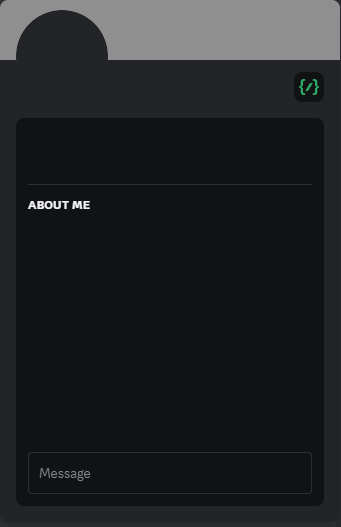
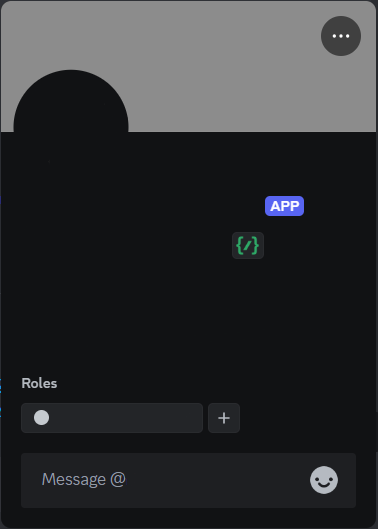
modif command

diff --git a/app/[locale]/page.tsx b/app/[locale]/page.tsx
@@ -1,5 +1,6 @@
 import { useTranslations } from "next-intl";
 import style from "@/public/style/home.module.css";
+import Image from "next/image";
 
 export default function LocalePage() {
   const t = useTranslations("home");
@@ -14,14 +15,26 @@ export default function LocalePage() {
       </div>
       <div className={style.container_bubble}>
         <div className={`${style.bubble} ${style.left}`}>
-          <img src="./img/Bot_dream.png" alt="" className="bubble_img" />
+          <Image
+            src="/img/Bot_dream.png"
+            alt=""
+            className="bubble_img"
+            width={500}
+            height={500}
+          />
           <div className={style.bubble_text}>
             <h1>{t("bubble1.title")}</h1>
             <p>{t("bubble1.description")}</p>
           </div>
         </div>
         <div className={`${style.bubble} ${style.right}`}>
-          <img src="./img/Bot_dream.png" alt="" className="bubble_img" />
+          <Image
+            src="/img/Bot_personnality.png"
+            alt=""
+            className="bubble_img"
+            width={500}
+            height={500}
+          />
           <div className={style.bubble_text}>
             <h1>{t("bubble2.title")}</h1>
             <p>{t("bubble2.description")}</p>
@@ -29,7 +42,13 @@ export default function LocalePage() {
         </div>
 
         <div className={`${style.bubble} ${style.left}`}>
-          <img src="./img/Bot_dream.png" alt="" className="bubble_img" />
+          <Image 
+          src="/img/Bot_result.png" 
+          alt="" 
+          className="bubble_img" 
+          width={500}
+          height={500}
+          />
           <div className={style.bubble_text}>
             <h1>{t("bubble3.title")}</h1>
             <p>{t("bubble3.description")}</p>

diff --git a/public/style/view_bot.module.css b/public/style/view_bot.module.css
@@ -14,30 +14,59 @@
 .profile {
   position: absolute;
   border-radius: 50%;
-  width: 85px;
-  height: 85px;
-  top: 15px;
-  left: 20px;
+  width: 95px;
+  height: 95px;
+  top: 70px;
+  left: 19px;
 }
 
 .title_bot {
   position: absolute;
-  top: 125px;
+  top: 175px;
   left: 30px;
-  font-size: large;
+  font-size: larger;
   font-weight: bold;
+  width: 275px;
+  overflow: hidden;
+}
+
+.title_bot_id {
+  position: absolute;
+  left: 30px;
+  top: 215px;
+  font-weight: normal;
+  font-size: medium;
+  width: 275px;
+  overflow: hidden;
+}
+
+.title_bot_role {
+  position: absolute;
+  left: 30px;
+  top: 315px;
+  font-weight: normal;
+  font-size: medium;
   width: 275px;
   overflow: hidden;
 }
 
 .description_bot {
   position: absolute;
-  top: 200px;
+  top: 251px;
   left: 30px;
   width: 275px;
-  height: 200px;
+  height: 90px;
   overflow-wrap: break-word;
   overflow-x: hidden;
+  font-size: small;
+}
+
+@media screen and (max-width: 768px) {
+  .view {
+    position: relative;
+    margin-bottom: 100px;
+  }
+  
 }
 
 @media screen and (max-width: 425px) {

diff --git a/components/Command/View_bot.tsx b/components/Command/View_bot.tsx
@@ -19,7 +19,9 @@ const View_Bot = ({bot_view}: any) => {
         width={100}
         height={100}
       />
-      <p className={style.title_bot}>{bot_view.name}</p>
+      <p className={style.title_bot}>{bot_view.name.length > 19 ? bot_view.name.substr(0, 19)+"..." : bot_view.name}</p>
+      <p className={style.title_bot_id}>{bot_view.name.length > 19 ? bot_view.name.substr(0, 19)+"..." : bot_view.name}</p>
+      <p className={style.title_bot_role}>{bot_view.name.length > 19 ? bot_view.name.substr(0, 19)+"..." : bot_view.name}</p>
       <p className={style.description_bot}>{bot_view.description}</p>
     </div>
   );

diff --git a/components/Command/Form_step_1.tsx b/components/Command/Form_step_1.tsx
@@ -81,6 +81,7 @@ const Form_step_1 = ({ bot, setBot }: { bot: any; setBot: any }) => {
           value={bot.name}
           onChange={handleChange}
           required
+          maxLength={35}
         />
       </div>
       <div className={style.form_group}>

diff --git a/public/style/form_step_1.module.css b/public/style/form_step_1.module.css
@@ -59,3 +59,11 @@
 .form button:active {
   background-color: var(--background-bubble-end);
 }
+
+
+@media screen and (max-width: 768px) {
+  .form {
+    width: 80%;
+  }
+  
+}
